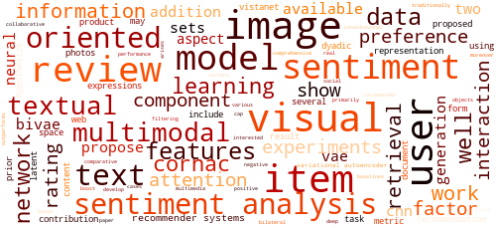
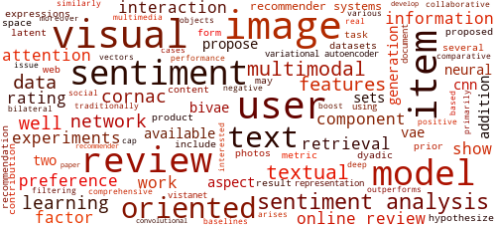
update

diff --git a/index.html b/index.html
@@ -59,7 +59,7 @@
                                     onclick="trackEvent('https://uet.vnu.edu.vn/~hieupx', 'view', 'info', 'uet.vnu.edu.vn/~hieupx');">Prof.
                                     Xuan-Hieu Phan</a>.
                             </p>
-                            <img src="./assets/wc.png?v=1.3" width="45%" align="right"
+                            <img src="./assets/wc.png?v=1.4" width="45%" align="right"
                                 style="display: inline-block;margin-left: 25px;" />
                             <p style="margin-bottom: 10px;text-align: justify;">I'm
                                 interested in developing better methods for information

diff --git a/wc.py b/wc.py
@@ -31,23 +31,31 @@ import random
 import string
 
 import numpy as np
-from PIL import Image
 import matplotlib.pyplot as plt
 
-import multidict
 from wordcloud import WordCloud, STOPWORDS, ImageColorGenerator
 
 
-stopwords = set(STOPWORDS) | set(["acm", "e", "g"])
+rng = np.random.RandomState(34)
+
+
+def color_fn(*args, **kwargs):
+    r = rng.randint(16, 240)
+    g = rng.randint(r // 4 + 1)
+    b = 0
+    return (r, g, b)
+
+
+STOPWORDS.update(["acm", "e", "g"])
 
 wc = WordCloud(
     width=500,
     height=230,
     margin=2,
     background_color="white",
-    colormap="gist_heat_r",
+    color_func=color_fn,
     max_words=100,
-    stopwords=stopwords,
+    stopwords=STOPWORDS,
     min_font_size=4,
     max_font_size=40,
     random_state=34,
